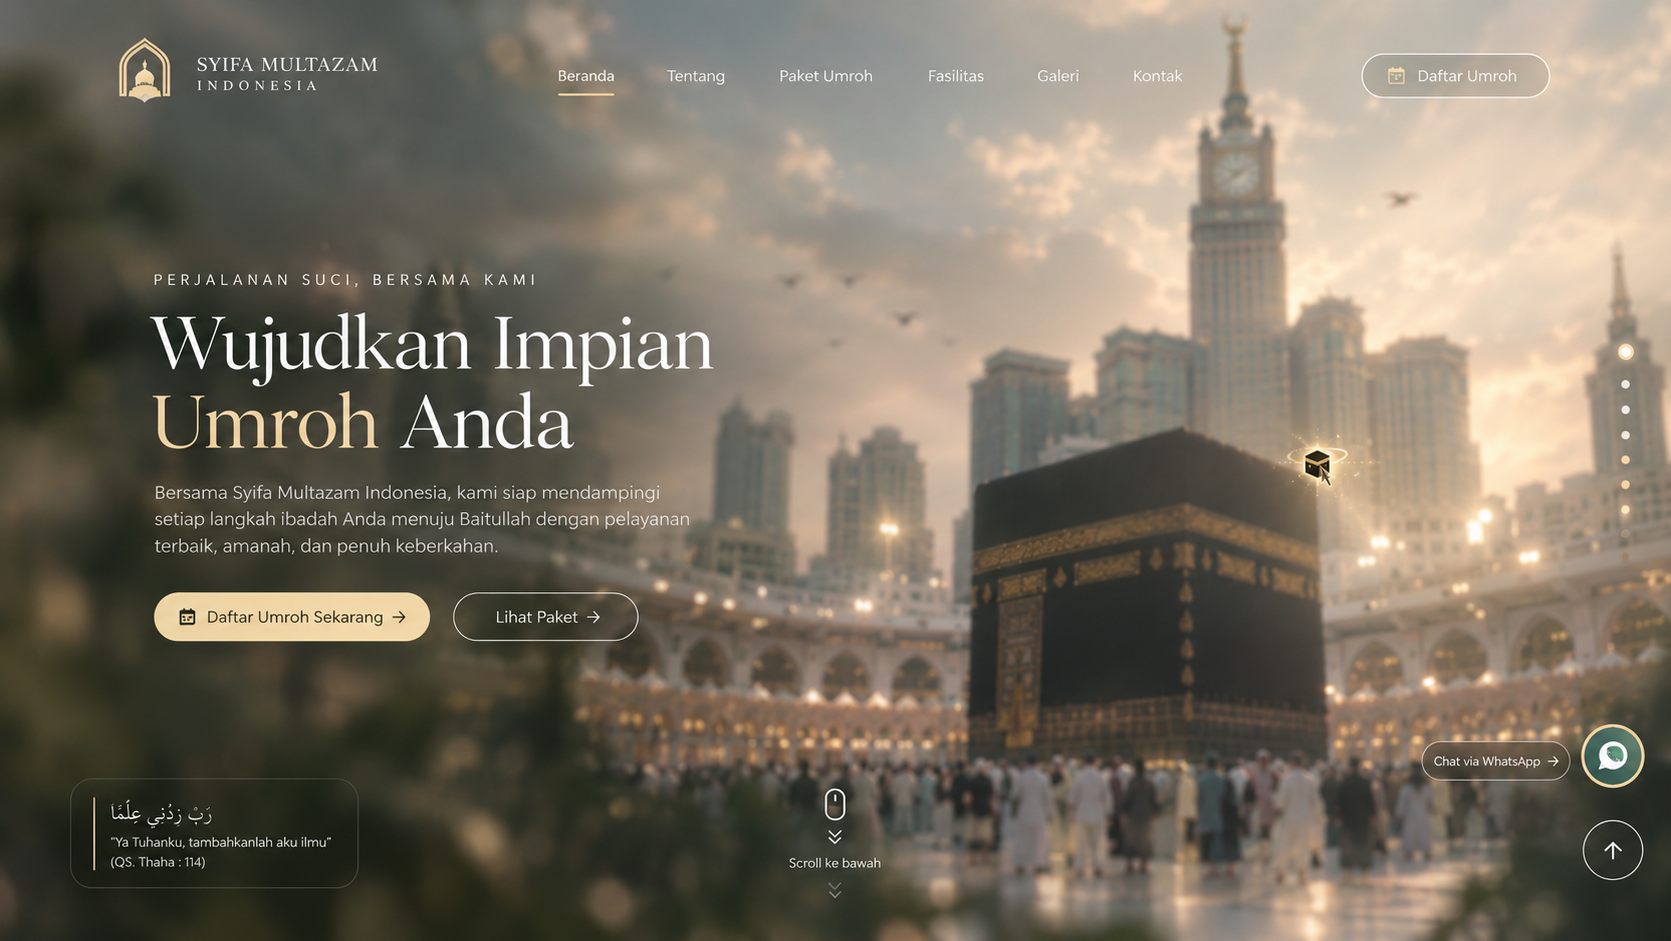
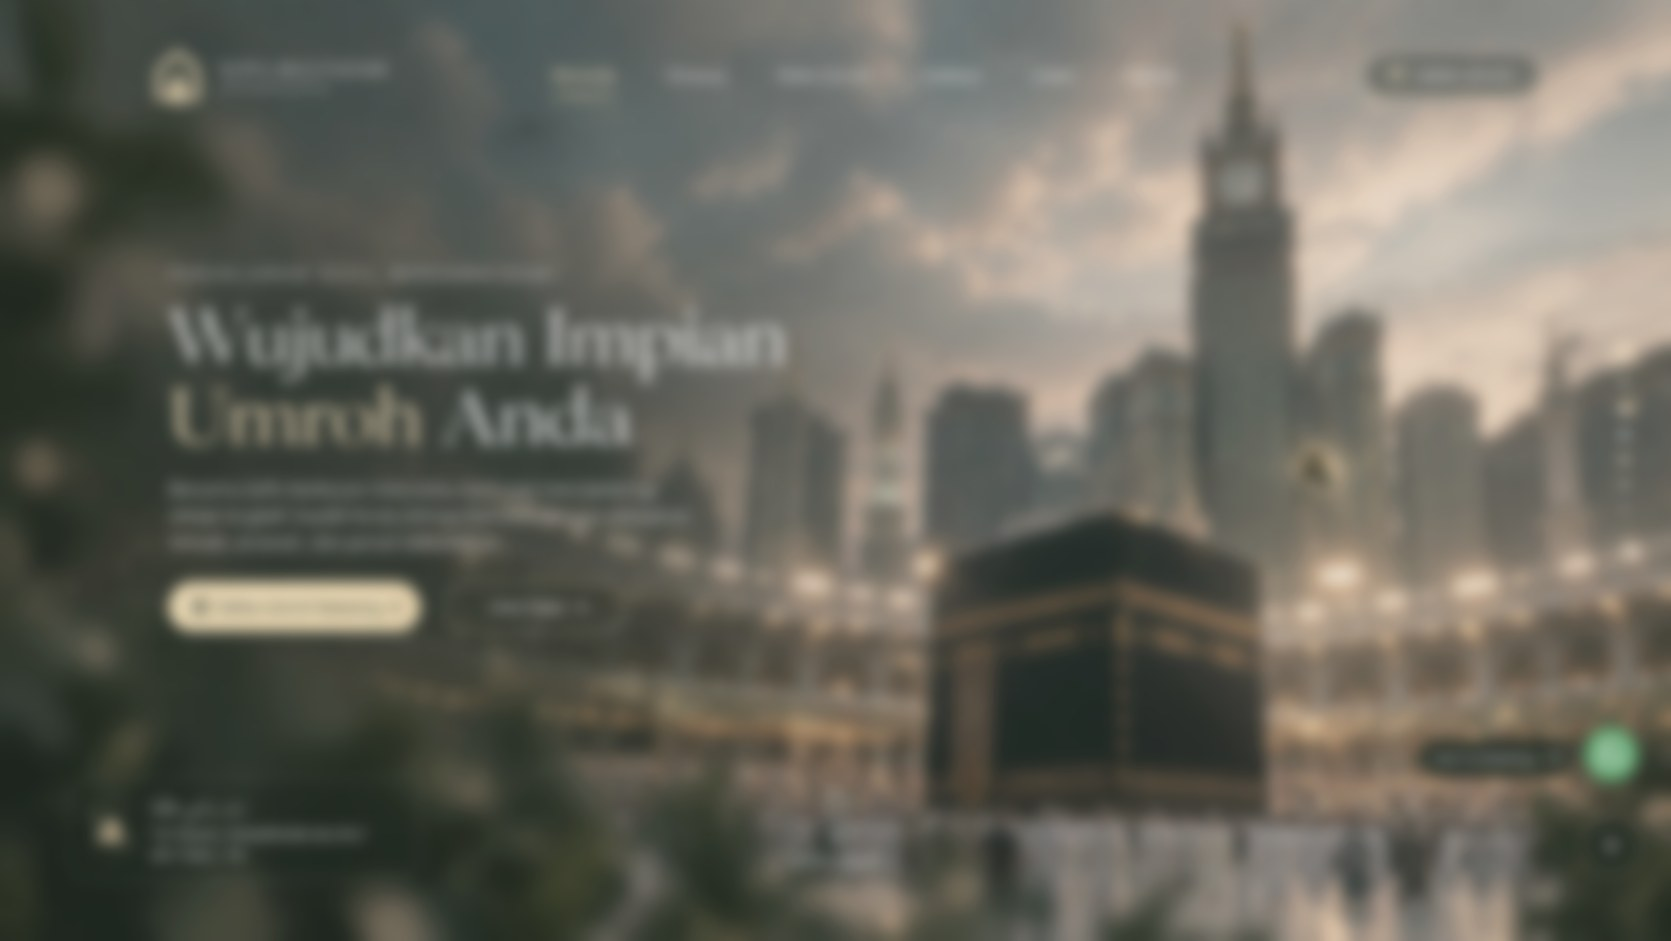
Add files via upload

diff --git a/style.css b/style.css
@@ -244,7 +244,7 @@ footer{background:var(--deep)}.foot{padding:65px 0}.copy{background:#041d18}
 .hero-bg{
   background:
     linear-gradient(90deg,rgba(28,25,21,.62) 0%,rgba(44,38,30,.34) 48%,rgba(30,27,23,.18) 100%),
-    url('images/makkah-warm-blur-hero.png') center/cover no-repeat !important;
+    url('images/makkah-hero-clean.jpg') center/cover no-repeat !important;
   transform:scale(1.035);
   filter:saturate(.82) contrast(.96) brightness(.94) blur(.15px);
 }
@@ -253,3 +253,70 @@ footer{background:var(--deep)}.foot{padding:65px 0}.copy{background:#041d18}
 .hero .eyebrow{color:#f0d79d !important;}
 .hero .quote{background:rgba(255,255,255,.10);border-color:rgba(255,255,255,.28);}
 @media(max-width:900px){.hero-bg{background-position:center center !important;}}
+
+/* FINAL HERO — warm dreamy Makkah reference */
+.hero-bg{
+  background-image:
+    linear-gradient(90deg, rgba(18,25,22,.82) 0%, rgba(24,31,27,.52) 38%, rgba(24,29,26,.12) 72%, rgba(24,29,26,.08) 100%),
+    url('images/makkah-hero-clean.jpg') !important;
+  background-position:center center !important;
+  background-size:cover !important;
+  filter:none !important;
+  transform:scale(1.02) !important;
+}
+.hero{background:#6c675d !important}
+.hero-content{grid-template-columns:1fr .45fr !important}
+.hero h1{max-width:720px !important}
+.hero h1 em{color:#e7c987 !important}
+.hero .eyebrow{color:#ead39d !important;border-color:rgba(234,211,157,.32)!important}
+.hero .quote{background:rgba(20,26,23,.24)!important;backdrop-filter:blur(14px)!important}
+.hero .btn.gold{background:linear-gradient(135deg,#f0dca7,#d2ad65)!important;color:#26342f!important}
+.hero .btn.outline{background:rgba(18,24,21,.16)!important;backdrop-filter:blur(8px)!important}
+@media(max-width:900px){
+  .hero-content{grid-template-columns:1fr !important}
+  .hero-bg{background-position:58% center !important}
+}
+
+/* ==========================================================
+   EXACT REFERENCE HERO
+   The uploaded reference is used as the hero artwork so the
+   first screen matches the supplied image exactly.
+   ========================================================== */
+.hero{
+  position:relative !important;
+  min-height:100vh !important;
+  height:100vh !important;
+  padding:0 !important;
+  overflow:hidden !important;
+  background:#27312d url('images/hero-reference.png') center center / cover no-repeat !important;
+}
+.hero-bg{display:none !important;}
+.hero-content{display:block !important;position:absolute !important;inset:0 !important;z-index:2 !important;pointer-events:none !important;}
+.hero-content > div:first-child,.hero-content .quote{display:none !important;}
+.hero::after{display:none !important;}
+#navbar{visibility:hidden !important;pointer-events:none !important;}
+.reference-hotspots{position:absolute;inset:0;z-index:8;pointer-events:none;}
+.reference-hotspots .hotspot{position:absolute;display:block;pointer-events:auto;outline:none;}
+.reference-hotspots .hotspot:hover{background:rgba(255,255,255,.035);border-radius:999px;}
+.hs-home{left:31.2%;top:4.6%;width:5.3%;height:6.2%;}
+.hs-tentang{left:38.4%;top:4.6%;width:5.8%;height:6.2%;}
+.hs-paket{left:45.3%;top:4.6%;width:7.3%;height:6.2%;}
+.hs-fasilitas{left:53.7%;top:4.6%;width:6.0%;height:6.2%;}
+.hs-galeri{left:60.9%;top:4.6%;width:5.2%;height:6.2%;}
+.hs-kontak{left:66.2%;top:4.6%;width:5.8%;height:6.2%;}
+.hs-daftar{right:8.1%;top:4.5%;width:10.5%;height:6.6%;}
+.hs-cta1{left:9.0%;top:60.5%;width:16.5%;height:6.5%;}
+.hs-cta2{left:26.8%;top:60.5%;width:10.2%;height:6.5%;}
+.hs-wa{right:3.1%;bottom:13.3%;width:4.0%;height:7.5%;}
+.hs-top{right:2.9%;bottom:4.9%;width:4.0%;height:7.0%;}
+/* Keep the real app-like controls from covering the reference artwork. */
+#back-to-top{display:none !important;}
+.mobile-bottom-nav{display:none !important;}
+/* Make the reference screen occupy a clean, exact 16:9 canvas on desktop. */
+@media (min-width:901px){
+  .hero{aspect-ratio:1664 / 935;min-height:0;height:auto !important;}
+}
+@media (max-width:900px){
+  .hero{height:72vh !important;min-height:560px !important;background-position:center center !important;}
+  .reference-hotspots .hotspot{display:none;}
+}

diff --git a/index.html b/index.html
@@ -36,16 +36,29 @@
   <div class="hero-bg"></div>
   <div class="container hero-content">
     <div>
-      <span class="eyebrow">✦ PERJALANAN IBADAH PENUH MAKNA</span>
-      <h1>Saatnya Melangkah <em>Menuju Baitullah.</em></h1>
-      <p>Bersama Syifa Multazam Indonesia, wujudkan perjalanan Umroh yang nyaman, terarah, dan penuh ketenangan hati.</p>
-      <a class="btn gold" href="#paket">Lihat Paket</a>
-      <a class="btn outline" href="#kontak">Konsultasi</a>
+      <span class="eyebrow">PERJALANAN SUCI, BERSAMA KAMI</span>
+      <h1>Wujudkan Impian <em>Umroh Anda</em></h1>
+      <p>Bersama Syifa Multazam Indonesia, kami siap mendampingi setiap langkah ibadah Anda menuju Baitullah dengan pelayanan terbaik, amanah, dan penuh keberkahan.</p>
+      <a class="btn gold" href="#kontak">Daftar Umroh Sekarang <span aria-hidden="true">→</span></a>
+      <a class="btn outline" href="#paket">Lihat Paket <span aria-hidden="true">→</span></a>
     </div>
     <div class="quote">
       <small>Mulai perjalananmu</small>
       <h2>Labbaik Allahumma Labbaik</h2>
       <p>Semoga setiap langkah menuju Baitullah menjadi perjalanan yang penuh keberkahan.</p>
+    </div>
+    <div class="reference-hotspots" aria-label="Navigasi hero">
+      <a class="hotspot hs-home" href="#home" aria-label="Beranda"></a>
+      <a class="hotspot hs-tentang" href="#tentang" aria-label="Tentang"></a>
+      <a class="hotspot hs-paket" href="#paket" aria-label="Paket Umroh"></a>
+      <a class="hotspot hs-fasilitas" href="#fasilitas" aria-label="Fasilitas"></a>
+      <a class="hotspot hs-galeri" href="#galeri" aria-label="Galeri"></a>
+      <a class="hotspot hs-kontak" href="#kontak" aria-label="Kontak"></a>
+      <a class="hotspot hs-daftar" href="#kontak" aria-label="Daftar Umroh"></a>
+      <a class="hotspot hs-cta1" href="#kontak" aria-label="Daftar Umroh Sekarang"></a>
+      <a class="hotspot hs-cta2" href="#paket" aria-label="Lihat Paket"></a>
+      <a class="hotspot hs-wa" href="https://wa.me/6282190200071" target="_blank" rel="noopener" aria-label="WhatsApp"></a>
+      <a class="hotspot hs-top" href="#home" aria-label="Kembali ke atas"></a>
     </div>
   </div>
 </section>
